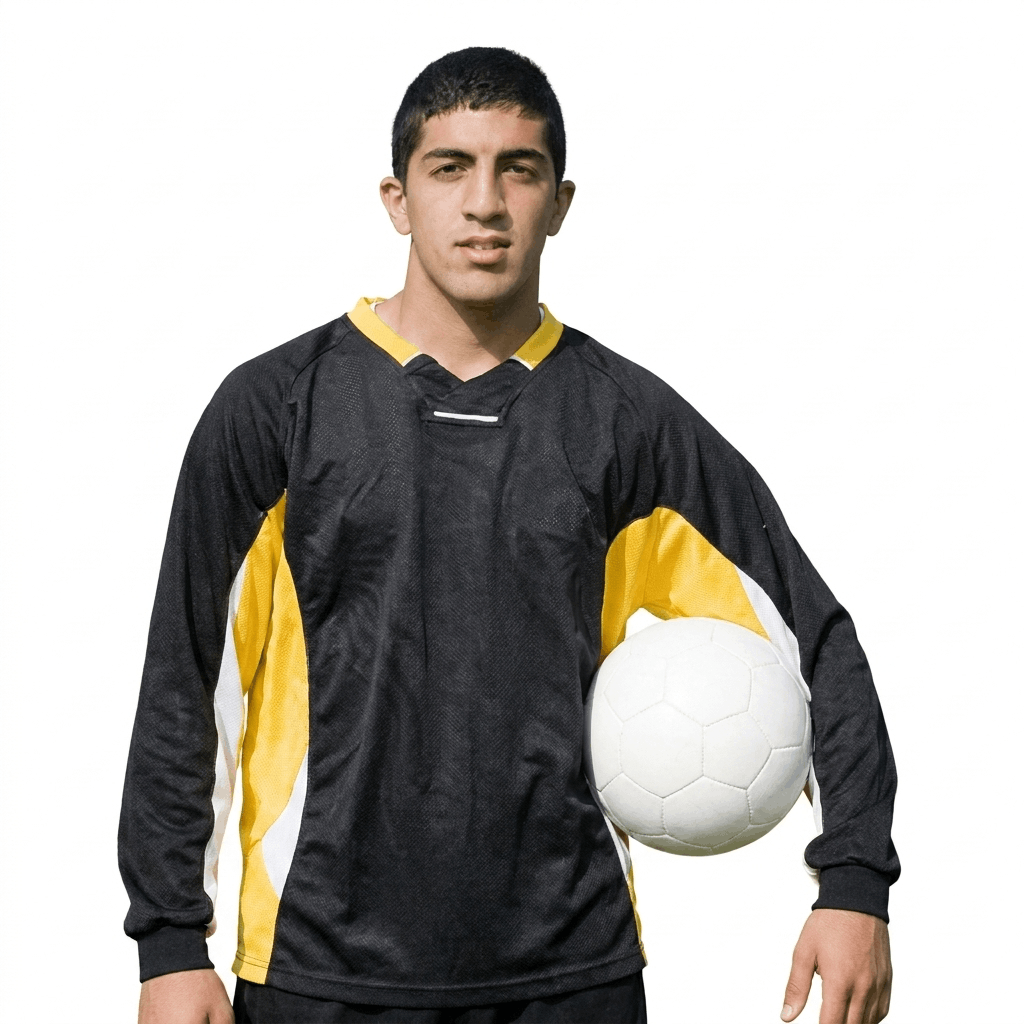
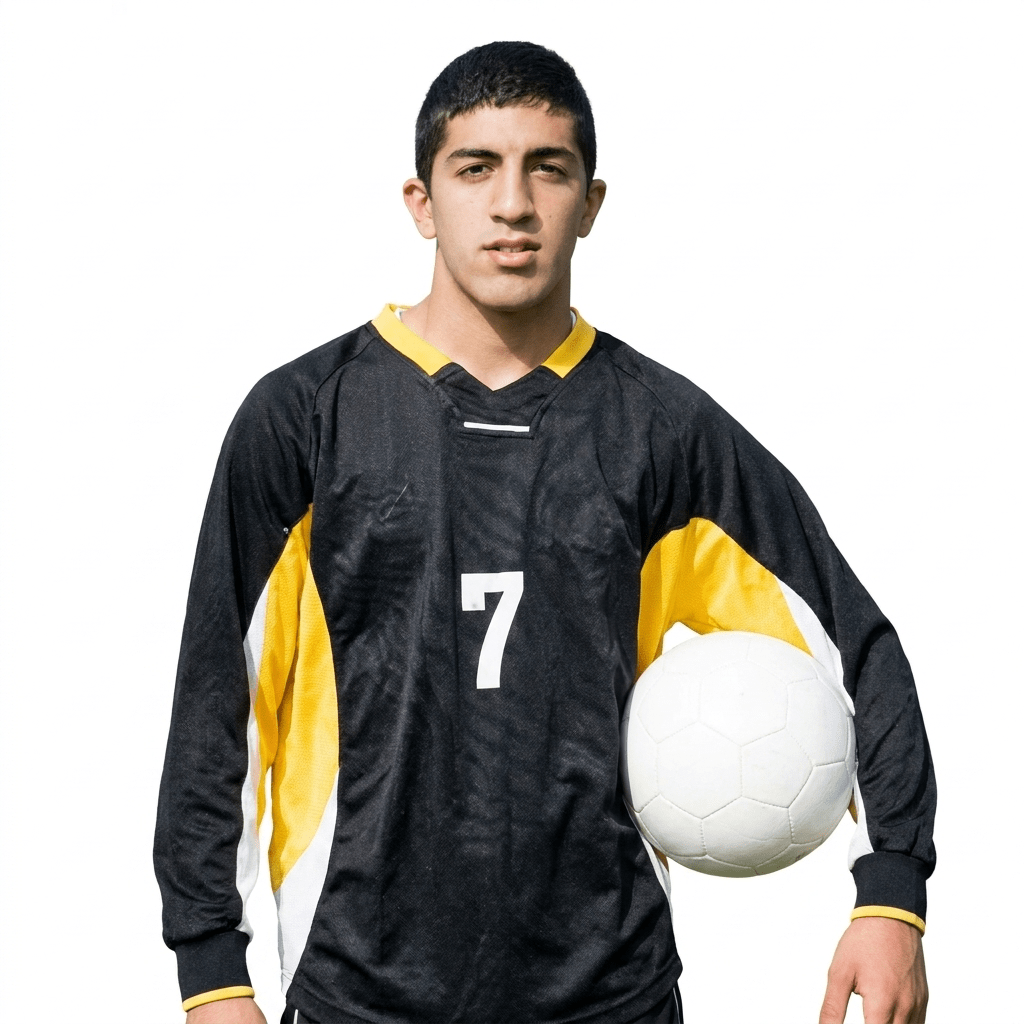
feat(hsk-sim/auto-login): Inicio goes straight to portal home + refresh sim4 q5
Fernando 2026-06-08 — two small fixes.

1) AUTO-LOGIN FROM HSK SIM → HOMEWORK
   After a kid finishes a HSK simulation and taps 🏠 Inicio, they were
   landing on the login screen of /homework.html and having to re-type
   their code. Fernando: "Inicio should take you to the homework portal."
   The pattern already existed for the Modo Maestro hand-off (the player
   end-screen passes ?code=ABCD&from=maestro and homework.js auto-fires
   tryEnter() if the access code is remembered in localStorage). Reusing
   that exactly: Inicio now navigates to /homework.html?code=<sc>&from=hsk-sim,
   and homework.js's trustedSources list now accepts both 'maestro' and
   'hsk-sim'. Result: zero taps from results screen to portal home.

2) REFRESH SIMULATION 4 · LISTENING PART 1 · QUESTION 5 IMAGE
   Fernando swapped the local PNG. Commit it so Render serves the new
   bytes. URL stays the same so no cache bump needed on the sim-data
   side; browsers might still hold the old one for a session but the
   correct one is now authoritative on the server.

Cache: hsk-sim.js + homework.js → v=20260608c so both phones pick up
the new auto-login flow.

Changed region(s): [[0.0938, 0.0312, 0.9375, 1.0]]

diff --git a/public/js/homework.js b/public/js/homework.js
@@ -215,17 +215,23 @@
     if (savedCode) $('hw-student-code').value = savedCode;
   } catch (_) {}
 
-  // ── Arriving from Modo Maestro? The player page sends ?code=ABCD&from=maestro
-  // so the kid lands in their portal without logging in again. Pre-fill their
-  // student code, and if their teacher's access code is remembered on this
-  // device, enter automatically.
+  // ── Arriving with a hand-off from another portal page? Two sources:
+  //   • Modo Maestro player end-screen sends ?code=ABCD&from=maestro
+  //   • HSK simulation Inicio button sends ?code=ABCD&from=hsk-sim
+  // Either way, pre-fill the student code; if the access code is
+  // remembered on this device, fire tryEnter() automatically so the
+  // kid lands on their portal home with zero taps. 2026-06-08 (Fernando):
+  // "Inicio should take you to the homework portal" — was dropping the
+  // kid on the login screen instead of straight into their home.
   try {
     const params = new URLSearchParams(location.search);
     const fromCode = (params.get('code') || '').trim().toUpperCase();
     if (fromCode && /^[A-Z2-9]{4,5}$/.test(fromCode)) {
       $('hw-student-code').value = fromCode;
       const remembered = (localStorage.getItem(STORAGE_ACCESS_KEY) || '').trim();
-      if (params.get('from') === 'maestro' && remembered) {
+      const from = params.get('from');
+      const trustedSources = ['maestro', 'hsk-sim'];
+      if (trustedSources.includes(from) && remembered) {
         $('hw-access-code').value = remembered;
         // Defer one tick so the entry screen + DOM are fully ready.
         setTimeout(() => { try { tryEnter(); } catch (_) {} }, 60);

diff --git a/public/js/hsk-sim.js b/public/js/hsk-sim.js
@@ -775,7 +775,15 @@
       });
   }
   $('hsk-results-done').addEventListener('click', () => {
-    window.location.href = '/homework.html';
+    // 🆕 2026-06-08 (Fernando): pass studentCode + from=hsk-sim so
+    // homework.js auto-fills both fields and fires tryEnter — the kid
+    // lands directly on their portal home instead of seeing the login
+    // screen again. Fernando: "Inicio should take you to the homework
+    // portal." Falls back to localStorage if studentCode isn't in scope.
+    let code = studentCode;
+    if (!code) { try { code = localStorage.getItem('dralyStudentCode') || ''; } catch (_) {} }
+    const qs = code ? '?code=' + encodeURIComponent(code) + '&from=hsk-sim' : '';
+    window.location.href = '/homework.html' + qs;
   });
   // 🆕 2026-06-08 (Fernando): Repetir reloads the same simulation with
   // the SAME entry params (pin/access/code) so the kid drops straight

diff --git a/public/homework.html b/public/homework.html
@@ -605,7 +605,7 @@
   <script src="/js/characters.js?v=20260603a"></script>
   <script src="/js/warmup-vocab.js?v=20260608a"></script>
   <script src="/js/sentence-categories.js?v=20260606a"></script>
-  <script src="/js/homework.js?v=20260608a"></script>
+  <script src="/js/homework.js?v=20260608c"></script>
   <script src="/js/super-admin-badge.js?v=20260528a"></script>
 </body>
 </html>

diff --git a/public/hsk-sim.html b/public/hsk-sim.html
@@ -72,6 +72,6 @@
 
   <script src="/socket.io/socket.io.js"></script>
   <script src="/js/sounds.js?v=20260524n"></script>
-  <script src="/js/hsk-sim.js?v=20260608a"></script>
+  <script src="/js/hsk-sim.js?v=20260608c"></script>
 </body>
 </html>
